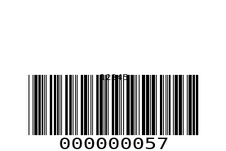
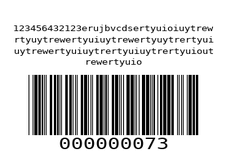
Barcode printing

diff --git a/main/utils.py b/main/utils.py
@@ -13,7 +13,10 @@ import os
 from PIL import Image, ImageWin
 import os, sys
 import win32print
-import win32ui
+import win32ui, win32api
+import img2pdf
+from pywintypes import error
+
 SYSTEM_CODE = {
     '0': {'message': 'Подключение с компьютера!', 'action': 'change screen', 'scanner':'none'},
     '10': {'message': 'Отсканируйте код сотрудника!', 'action': 'Show message, scanner response2server', 'scanner': 'button'},
@@ -80,7 +83,8 @@ class CustomWriter(ImageWriter):
         font = ImageFont.truetype(self.font_path, font_size)
         lines = textwrap.wrap(self.upper_text, width=MAX_WIDTH)
         
-        ypos -= len(lines) * 1.5
+        ypos -= 2.5
+        ypos -= len(lines) * 1
 
         for line in lines:
             width, height = font.getsize(line)
@@ -108,23 +112,76 @@ def generate_barcode(id, title):
                     options={"module_width": 0.1, "module_height": 8, "font_size": 14, "text_distance": 1,
                              "quiet_zone": 3})
     resize_image(f'barcode.png', 60, 40)
+
+    img_path = os.path.join(os.getcwd(), r'media\barcode.png') 
+    pdf_path = os.path.join(os.getcwd(), r'media\barcode.pdf')
+    image = Image.open(img_path)
+    pdf_bytes = img2pdf.convert(image.filename)
+    file = open(pdf_path, "wb")
+    file.write(pdf_bytes)
+    image.close()
+    file.close()
+
     printer_name = win32print.GetDefaultPrinter()
-    file_name = os.path.join(MEDIA_ROOT, "barcode.png")
 
-    hDC = win32ui.CreateDC()
-    hDC.CreatePrinterDC(printer_name)
-    printer_size = hDC.GetDeviceCaps(WIDTH), hDC.GetDeviceCaps(HEIGHT)
+    printdefaults = {"DesiredAccess": win32print.PRINTER_ALL_ACCESS}
 
-    bmp = Image.open(file_name)
-    if bmp.size[0] < bmp.size[1]:
-        bmp = bmp.rotate(90)
+    handle = win32print.OpenPrinter(printer_name, printdefaults)
+    level = 2
+    attributes = win32print.GetPrinter(handle, level)
+    attributes['pDevMode'].Duplex = 1
 
-    hDC.StartDoc(file_name)
-    hDC.StartPage()
+    win32print.SetPrinter(handle, level, attributes, 0)
+    win32print.GetPrinter(handle, level)['pDevMode'].Duplex
+    win32print.StartDocPrinter(handle, 1, [pdf_path, None, "raw"])
+    try:
+        win32api.ShellExecute(2,'print', pdf_path,'.','/manualstoprint',0)
+    except error as e:
+        return e[2]
+    win32print.ClosePrinter(handle)
 
-    dib = ImageWin.Dib(bmp)
-    dib.draw(hDC.GetHandleOutput(), (0, 0, printer_size[0], printer_size[1]))
 
-    hDC.EndPage()
-    hDC.EndDoc()
-    hDC.DeleteDC()
+    # hDC = win32ui.CreateDC()
+    # hDC.CreatePrinterDC(printer_name)
+    # printer_size = hDC.GetDeviceCaps(WIDTH), hDC.GetDeviceCaps(HEIGHT)
+
+
+    # hDC.StartDoc(file_name)
+    # hDC.StartPage()
+
+    # dib = ImageWin.Dib(bmp)
+    # dib.draw(hDC.GetHandleOutput(), (0, 0, printer_size[0], printer_size[1]))
+
+    # hDC.EndPage()
+    # hDC.EndDoc()
+    # hDC.DeleteDC()
+
+
+def print_pdf(input_pdf, mode=2, printer=1):
+    name = win32print.GetDefaultPrinter()
+
+    # оставляем без изменений
+    ## тут нужные права на использование принтеров
+    printdefaults = {"DesiredAccess": win32print.PRINTER_ALL_ACCESS}
+    ## начинаем работу с принтером ("открываем" его)
+    handle = win32print.OpenPrinter(name, printdefaults)
+    ## Если изменить level на другое число, то не сработает
+    level = 2
+    ## Получаем значения принтера
+    attributes = win32print.GetPrinter(handle, level)
+    ## Настройка двухсторонней печати
+    attributes['pDevMode'].Duplex = mode   #flip over  3 - это короткий 2 - это длинный край
+
+    ## Передаем нужные значения в принтер
+    win32print.SetPrinter(handle, level, attributes, 0)
+    win32print.GetPrinter(handle, level)['pDevMode'].Duplex
+    ## Предупреждаем принтер о старте печати
+    win32print.StartDocPrinter(handle, 1, [input_pdf, None, "raw"])
+    ## 2 в начале для открытия pdf и его сворачивания, для открытия без сворачивания поменяйте на 1
+    win32api.ShellExecute(2,'print', input_pdf,'.','/manualstoprint',0)
+    ## "Закрываем" принтер
+    win32print.ClosePrinter(handle)
+
+    ## Меняем стандартный принтер на часто используемый  
+    win32print.SetDefaultPrinterW("Brother DCP-L2540DN series Printer")
+    win32print.SetDefaultPrinter("Brother DCP-L2540DN series Printer")

diff --git a/storage/calculate_planning.py b/storage/calculate_planning.py
@@ -1,6 +1,6 @@
 from decimal import Decimal
 
-from Storage_planning.py3dbp import Packer, Bin, Item, Painter
+from storage_planning.py3dbp import Packer, Bin, Item, Painter
 from main.models import DEFAULT_CRATE_MASS
 
 def cast_sizes(width: Decimal, height: Decimal, depth: Decimal, pos_arr: list):
@@ -45,28 +45,33 @@ def calculate(crate_list: list, cell_size: list, cell_weight: float, surface_rat
                 temp = packer_item.width
                 packer_item.width = packer_item.height
                 packer_item.height = temp
+                break
             case 2: 
                 packer_item.rotation_type = 0
                 temp = packer_item.width
                 packer_item.width = packer_item.height
                 packer_item.height = packer_item.depth
                 packer_item.depth = temp
+                break
             case 3: 
                 packer_item.rotation_type = 0
                 temp = packer_item.width
                 packer_item.width = packer_item.depth
                 packer_item.depth = temp
+                break
             case 4: 
                 packer_item.rotation_type = 0
                 temp = packer_item.width
                 packer_item.width = packer_item.depth
                 packer_item.depth = packer_item.height
                 packer_item.height = temp
+                break
             case 5: 
                 packer_item.rotation_type = 0
                 temp = packer_item.height
                 packer_item.height = packer_item.depth
                 packer_item.depth = temp
+                break
             case _: continue
 
     packer.pack(

diff --git a/storage/views.py b/storage/views.py
@@ -182,8 +182,8 @@ class CratePositioningView(View):
 
             all_cells = sorted(
                 [
-                cell for cell in Storage.objects.all()
-                if cell.size_left > new_crate.volume
+                    cell for cell in Storage.objects.all()
+                    if cell.size_left > new_crate.volume
                 ],
                 key=lambda cell: cell.size_left,
                 reverse=True,

diff --git a/main/migrations/0025_remove_storage_size_left.py b/main/migrations/0025_remove_storage_size_left.py
@@ -1,0 +1,17 @@
+# Generated by Django 4.2.2 on 2023-07-25 07:27
+
+from django.db import migrations
+
+
+class Migration(migrations.Migration):
+
+    dependencies = [
+        ('main', '0024_alter_storage_size_left'),
+    ]
+
+    operations = [
+        migrations.RemoveField(
+            model_name='storage',
+            name='size_left',
+        ),
+    ]

diff --git a/main/models.py b/main/models.py
@@ -111,6 +111,7 @@ class Crates(models.Model):
     @property
     def rank(self):
         id = self.id
+        print(self.id)
         counter = 1
         while id != 0:
             id //= 10
